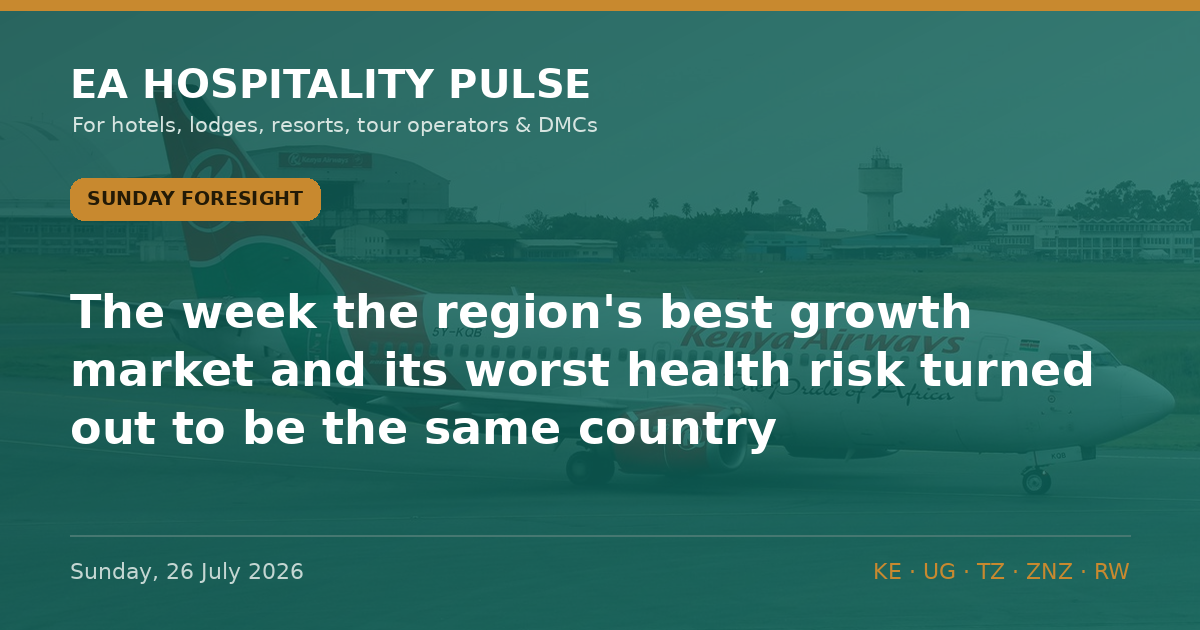
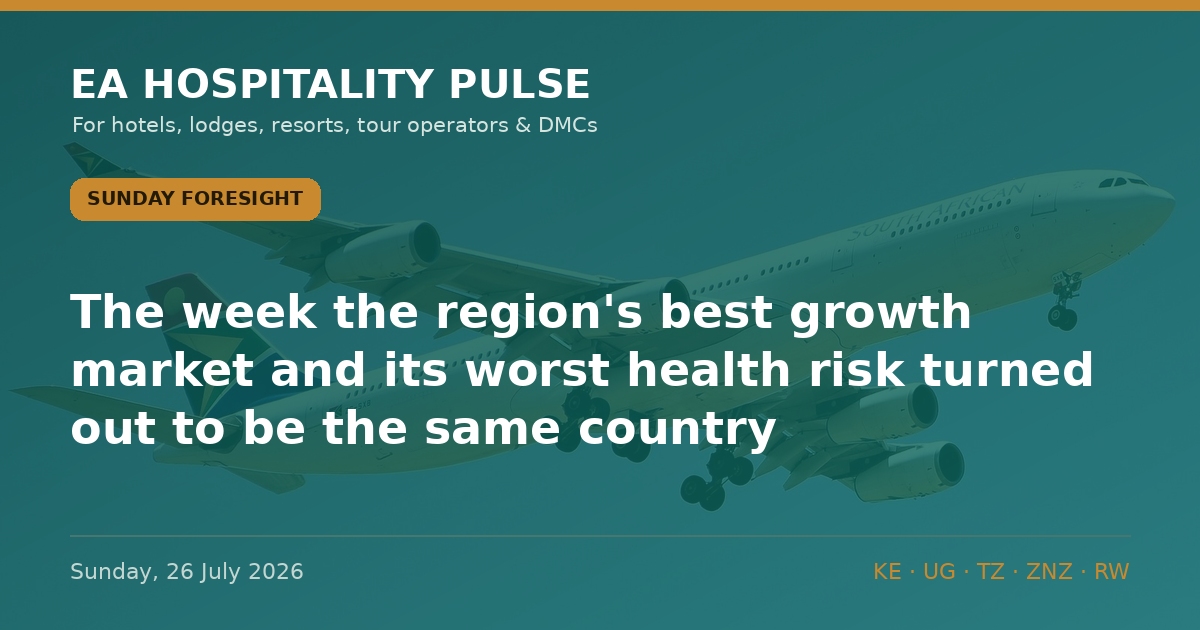
Auto-build: 2026-08-11 08:38 UTC

diff --git a/editions/foresight-2026-07-26.html b/editions/foresight-2026-07-26.html
@@ -73,7 +73,7 @@ footer.s{text-align:center;color:var(--muted);font-family:Helvetica Neue,Arial,s
 <div class="wrap">
   <article class="art">
     <img class="hero" src="../og/foresight-2026-07-26-clean.png" alt="Sunday Foresight — Sunday, 26 July 2026" loading="eager">
-    
+    <p class="hcredit">Photo: Bahnfrend · <a href="https://commons.wikimedia.org/wiki/File:South_African_Airways_Airbus_A340_ZS-SXB_Perth_2018_(01).jpg" target="_blank" rel="noopener nofollow">Wikimedia Commons</a> · <a href="https://creativecommons.org/licenses/by-sa/4.0" target="_blank" rel="noopener nofollow">CC BY-SA 4.0</a></p>
     <a class="nav" href="../index.html#archive">← All editions</a>
     <div class="kicker"><span class="badge">Sunday Foresight</span><time datetime="2026-07-26">Sunday, 26 July 2026</time></div>
     <h1>The week the region&#x27;s best growth market and its worst health risk turned out to be the same country.</h1>

diff --git a/index.html b/index.html
@@ -352,7 +352,7 @@
   .pl-brand{font-family:'Helvetica Neue',Arial,sans-serif;font-size:12px;font-weight:600;color:var(--muted);background:var(--sand-2);padding:2px 8px;border-radius:20px;margin-left:4px;white-space:nowrap}
   .pl-detail{font-size:14px;color:var(--muted);margin:6px 0 8px;line-height:1.55}
 </style>
-<!--BUILD_STAMP:20260811-1135--></head>
+<!--BUILD_STAMP:20260811-0837--></head>
 <body>
 <header class="site">
   <div class="wrap topbar">

diff --git a/data.js b/data.js
@@ -1807,4 +1807,4 @@ window.INSIGHTS = [
   "editionKey": "evening"
  }
 ];
-window.BUILT_AT = "2026-08-11 11:35";
+window.BUILT_AT = "2026-08-11 08:37";

diff --git a/ledger.js b/ledger.js
@@ -1,5 +1,5 @@
 window.LEDGER = {
- "updated": "2026-08-11 11:35",
+ "updated": "2026-08-11 08:38",
  "stats": {
   "total": 66,
   "open": 59,
